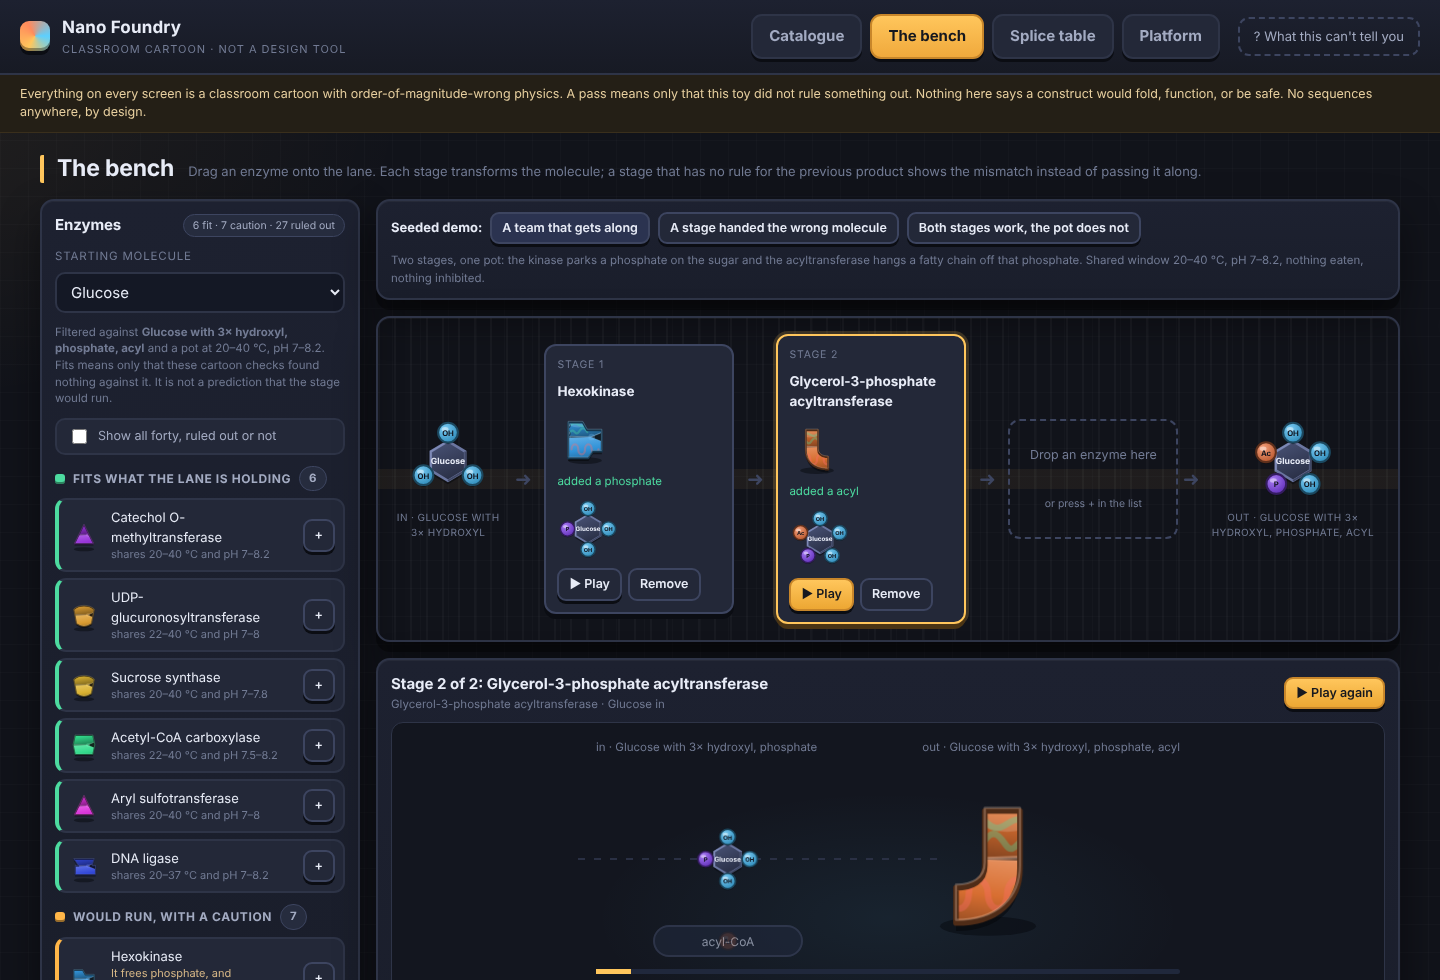
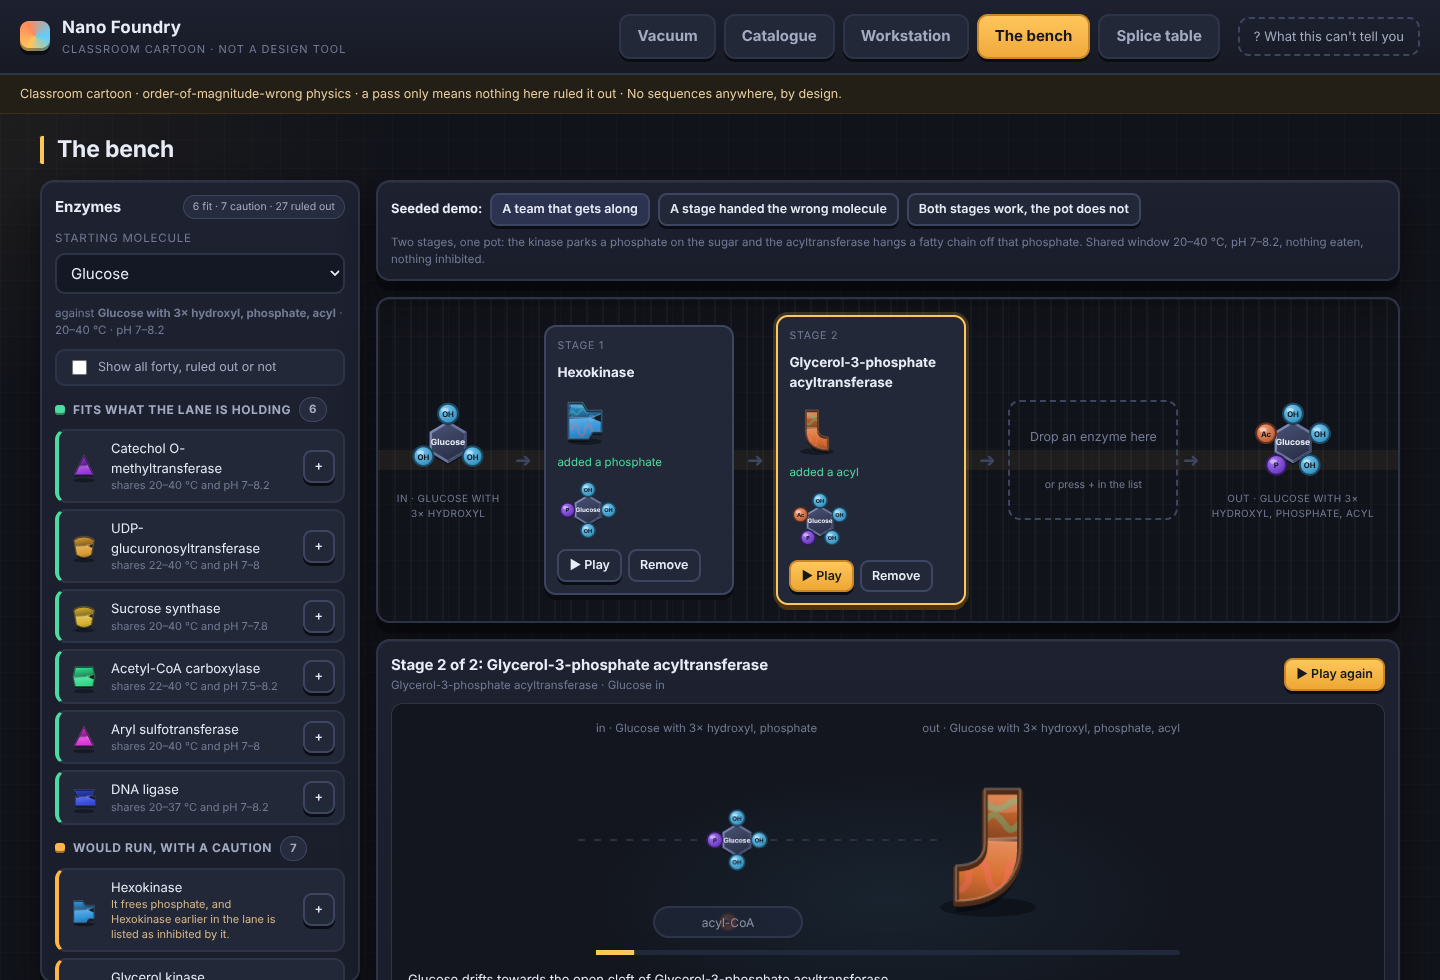
Catch the screenshots and the docs up with the Platform tab being gone
tools/screenshots.cjs still clicked the Platform tab, so it timed out there and
never wrote the limits-panel shot. That step is gone, and because the home
screen is now the landing page, the script clicks through to the catalogue
before taking 1-catalogue.png and captures the vacuum mid-run first — with a
software GL backend so the committed picture shows the 3D scene rather than the
flat fallback.

Regenerated every shot against the current UI, dropped 6-platform.png, and
pointed the README at the vacuum instead of the splice table at the top. The
demo-day script now shows the agent registry from config and the API rather
than from a tab that no longer exists; tracks.md and credentials.md lose the
same reference.

While capturing: a 3D label dropped by the three-label cap kept its "shown"
class and its position from the previous frame, leaving a stale label pinned at
the edge of the stage. Dropped labels now lose that class with the rest.

Claude-Session: https://claude.ai/code/session_013mh6AbMKNBsu7vkqAM9oBn

diff --git a/src/ui/home-view.js b/src/ui/home-view.js
@@ -222,7 +222,9 @@ function drawLabels(stage, t) {
 
   // Three at once is the most a reader can take in while something is moving.
   placed.sort((m, n) => m.ly - n.ly);
-  placed.splice(3);
+  // Anything past the cap is not placed this frame, so it must not stay shown
+  // at the position it held in the last one.
+  for (const dropped of placed.splice(3)) seen.delete(dropped.el.dataset.label);
   for (let i = 0; i < placed.length; i++) {
     const m = placed[i];
     m.ly = Math.max(16, m.ly);

diff --git a/README.md b/README.md
@@ -6,7 +6,7 @@ hypothetical two-domain constructs.** Built at HackTX 26.
 > Live at **nanofoundry.tech** *(domain not registered yet — see `docs/tracks.md`; everything on
 > this side is ready for it)*
 
-![The splice table, with the candidate funnel](docs/screenshots/3-splice-pass.png)
+![The vacuum: the lane running in 3D](docs/screenshots/0-vacuum.png)
 
 Nano Foundry is an educational toy. The physics is order-of-magnitude wrong on purpose, the enzyme
 catalogue is forty hand-curated commonplace entries committed to this repo, and **the app emits no
@@ -34,6 +34,11 @@ npm test          # 70 JavaScript tests + the Python parity suite
 
 ## What is in it
 
+**The vacuum** — the home screen. The lane from the bench, run as one chain in a dark metallic 3D
+scene: press Play once and each enzyme in turn takes the molecule, acts on it, and hands the product
+to the next. Enzyme bodies are invented geometry; molecules are ball-and-stick, with the atoms and
+bonds of their composition and drawn positions.
+
 **Catalogue** — forty enzymes in three columns by what they do to a molecule: *adds*, *removes*,
 *creates / rearranges*. Each card shows the group it moves, a cartoon of substrate in and product
 out, its cofactor, its temperature and pH window, and a schematic loop/helix/sheet domain map. Every
@@ -52,15 +57,13 @@ hard-reject filters report pass or fail with a reason: cut site, backbone join, 
 breaks, compactness, buried core, operating window. The funnel shows every candidate splice point
 that went in, which filter killed how many, and the few that came out.
 
-**Platform** — the three agents, read from `config/agents.json`: their tools, models, instructions
-and limits, with per-run traces and replay.
-
 ![A phosphate changing hands, mid-animation](docs/screenshots/8-reaction.png)
 
 | | |
 | --- | --- |
 | ![Catalogue](docs/screenshots/1-catalogue.png) | ![A clean run on the bench](docs/screenshots/2-bench-clean.png) |
 | ![The catalogue filtered to what fits the bench](docs/screenshots/9-catalogue-filtered.png) | ![A team that cannot share a pot](docs/screenshots/2-bench-pot-clash.png) |
+| ![The splice table, with the candidate funnel](docs/screenshots/3-splice-pass.png) | ![What this can't tell you](docs/screenshots/7-what-this-cant-tell-you.png) |
 
 ## How it is put together
 

diff --git a/docs/demo-day.md b/docs/demo-day.md
@@ -34,8 +34,9 @@ the standing list of what was never checked beside it. Drag the linker to 2: the
 to 20: the compactness band rejects the dumbbell. Then point at the funnel: 36 candidate splice
 points in, which filter killed how many, and how few come out.
 
-**1:45 — the platform.** One click to the Platform tab: three agents declared in config with their
-tools, models and limits, traces with per-step latency, and a Replay button. "The filters are
+**1:45 — the platform, from the terminal.** There is no Platform tab any more; show it from
+`config/agents.json` and `curl localhost:8000/agents`: three agents declared in config with their
+tools, models and limits, traces with per-step latency, and `/traces/<id>/replay`. "The filters are
 deterministic code, the model only parses and explains, and the registry is what keeps that honest."
 
 **1:55 — close.** "Every number on screen says where it came from, and the ones we invented are

diff --git a/docs/tracks.md b/docs/tracks.md
@@ -105,7 +105,7 @@ tool `filters.explain`, 400 output tokens), and the **filter sweep runner** (no 
 descriptions a judge can read. Every run writes a trace — per-tool latency, token counts, status —
 and any trace can be replayed; replay refuses to claim it reproduced a model-backed run and says why
 instead. `py/service.py` exposes `/agents`, `/agents/<id>/run`, `/agents/<id>/traces`,
-`/traces/<id>/replay` and `/metrics`, and the Platform screen is a read-only view of all of it. The
+`/traces/<id>/replay` and `/metrics`. The
 registry's `refuse_fields` list is enforced on both sides of the wire, so the scope rule in
 `docs/scope.md` §2 is a platform property rather than a convention.
 

diff --git a/docs/credentials.md b/docs/credentials.md
@@ -2,7 +2,7 @@
 
 Nano Foundry runs with none of these. Each one turns a panel from "not configured, here is what
 it would have done" into the live thing. Nothing here is needed to demo the catalogue, the bench,
-the splice funnel or the platform screen.
+the splice funnel or the vacuum.
 
 Copy `.env.example` to `.env` at the repo root and fill it in. `.env` is gitignored, and
 `./deploy/bring-up.sh` sources it automatically, so no key ever needs to be pasted into a command
